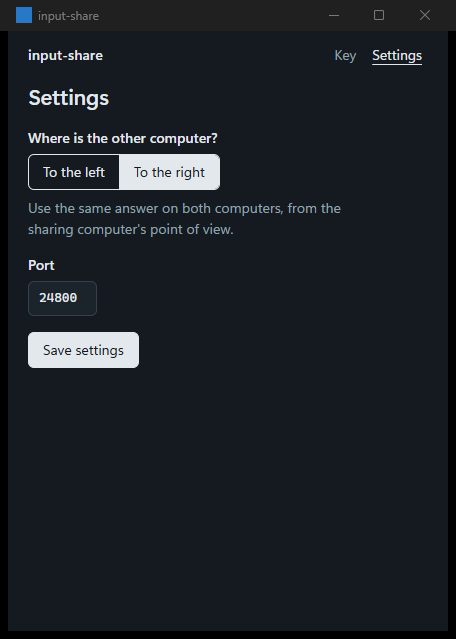
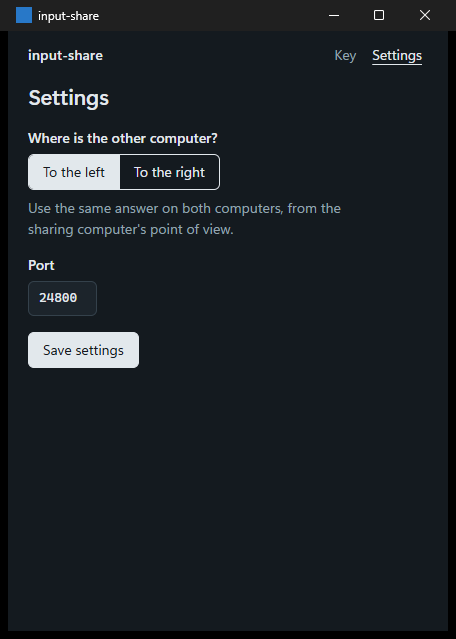
Lock settings while sharing, looking for hosts or connected
A running session keeps the settings it started with, so edits made
mid-session silently waited for the next start. The Settings page now
disables its controls and says what to stop first, and the backend
refuses the save as well.

Changed region(s): [[0.0614, 0.2379, 0.4912, 0.2973], [0.0921, 0.0, 0.2149, 0.0297], [0.9211, 0.0, 0.9518, 0.0297]]

diff --git a/gui/ui/app.js b/gui/ui/app.js
@@ -189,6 +189,18 @@ function renderView() {
     const t = clone("t-settings");
     for (const r of t.querySelectorAll('input[name="edge"]')) r.checked = r.value === ui.boot.edge;
     $("#port", t).value = ui.boot.port;
+    // A running session keeps the settings it started with: lock until stopped.
+    if (ui.role) {
+      for (const el of t.querySelectorAll("input, button")) el.disabled = true;
+      const locked = slot(t, "locked");
+      locked.hidden = false;
+      locked.textContent =
+        ui.role === "server"
+          ? "Stop sharing to change these settings."
+          : ui.conn === "idle"
+            ? "Stop looking to change these settings."
+            : "Disconnect to change these settings.";
+    }
     view.append(t);
   }
 }
@@ -433,6 +445,7 @@ const CANNED = {
   keys: { screen: "keys" },
   "keys-confirm": { screen: "keys", confirmReplace: true },
   settings: { screen: "settings" },
+  "settings-locked": { role: "server", screen: "settings", conn: "waiting", addr: "192.168.1.10:24800" },
 };
 
 // ---- Start ----

diff --git a/gui/ui/style.css b/gui/ui/style.css
@@ -289,6 +289,12 @@ textarea { resize: none; }
 .seg input:focus-visible + span { outline: 2px solid var(--focus); outline-offset: -4px; }
 
 .confirm { border-left: 3px solid var(--away); padding: 2px 0 2px 12px; margin-bottom: 16px; }
+
+/* Settings while a session runs: say why, and show the controls as off. */
+.locked { border-left: 3px solid var(--muted); padding: 2px 0 2px 12px; margin: 0 0 16px; }
+.settings :disabled, .settings :disabled + span { cursor: not-allowed; }
+/* Not the radios: they stay invisible (opacity 0); their labels dim instead. */
+.settings input:disabled:not([type="radio"]), .settings button:disabled, .seg input:disabled + span { opacity: 0.5; }
 .confirm p { margin: 0 0 10px; }
 
 @media (prefers-reduced-motion: reduce) {

diff --git a/gui/ui/index.html b/gui/ui/index.html
@@ -134,6 +134,7 @@
 
   <template id="t-settings">
     <form class="settings" data-act="save-settings">
+      <p class="locked" data-slot="locked" hidden></p>
       <fieldset>
         <legend>Where is the other computer?</legend>
         <div class="seg">

diff --git a/gui/src/backend.rs b/gui/src/backend.rs
@@ -290,6 +290,11 @@ impl Backend {
     }
 
     pub fn save_settings(&mut self, edge: &str, port: u16) -> Result<(), String> {
+        // A running session keeps the settings it started with, so changing
+        // them now would silently do nothing until the next start.
+        if self.is_running() || self.listener.is_some() {
+            return Err("Stop sharing or disconnect first, then change settings.".into());
+        }
         if !matches!(edge, "left" | "right") {
             return Err("Choose left or right.".into());
         }
@@ -388,6 +393,16 @@ mod tests {
         b.save_settings("left", 25000).unwrap();
         let boot = b.boot().unwrap();
         assert_eq!((boot.edge.as_str(), boot.port), ("left", 25000));
+
+        // Locked while anything is running: sharing, and looking for hosts.
+        b.start_sharing().unwrap();
+        assert!(b.save_settings("right", 24800).is_err());
+        b.stop_sharing();
+        b.start_browsing().unwrap();
+        assert!(b.save_settings("right", 24800).is_err());
+        b.stop_browsing();
+        b.save_settings("right", 24800).unwrap();
+        assert_eq!(b.boot().unwrap().edge, "right", "a refused save changes nothing, a later one works");
         let _ = std::fs::remove_dir_all(dir);
     }
 }
